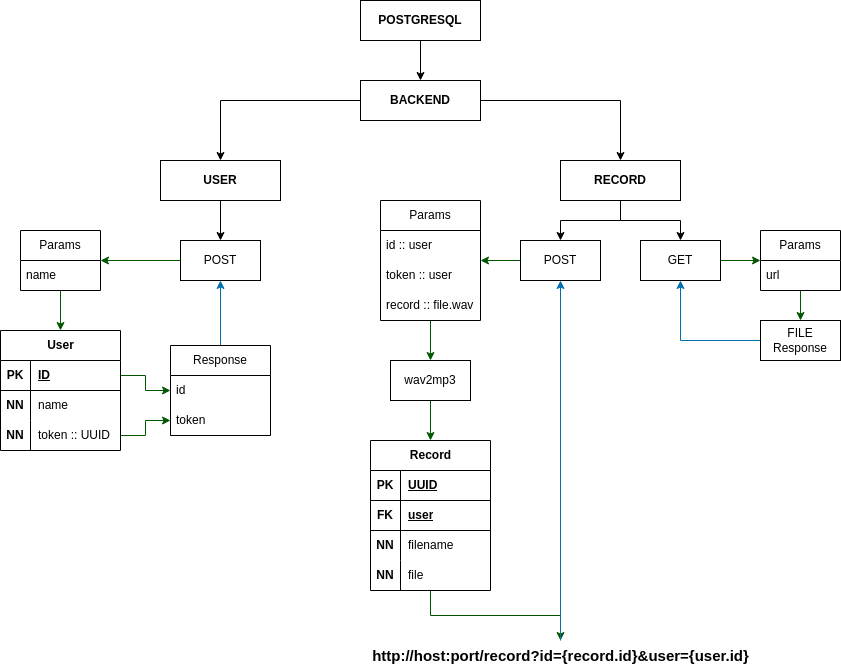
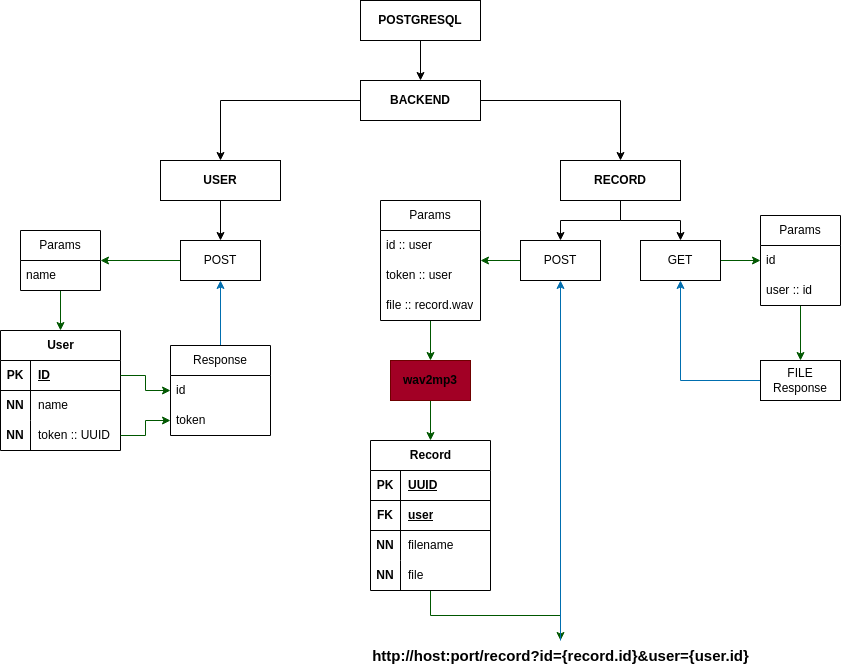
WebDevelopment: staff-prof.ru: Fixed get record implementation

diff --git a/WebDevelopment/staff-prof.ru/Task_2/app/routers/record.py b/WebDevelopment/staff-prof.ru/Task_2/app/routers/record.py
@@ -1,14 +1,12 @@
-import asyncio
 from typing import Annotated
 
 import sqlalchemy.orm as sao
-from pydantic import HttpUrl, UUID4, PositiveInt, AfterValidator
+from pydantic import UUID4, PositiveInt, AfterValidator
 from fastapi import APIRouter, Query, Form, status, UploadFile, File, Depends
 from fastapi.responses import Response
 
 from app import schemas, dependencies, exceptions
 from app.config import settings, SUPPORTED_RECORD_RESPONSE_FILE_TYPE
-from app.dependencies import parse_record_id_and_user_id
 from app.sqldb import crud
 
 
@@ -41,12 +39,16 @@ async def upload_record(
     if not user:
         raise exceptions.UserIDOrTokenIsInvalid()
 
-    # XXX: Конвертирует...
-    await asyncio.sleep(2)
+    # TODO: Конвертация: `.wav` to `.mp3`
+
+    # TODO: Название файла, если она не задана
+    filename = file.filename
+    if filename is None:
+        filename = f"{user.id}.wav"
 
     record = crud.Record.create(
         user_id=user.id,
-        filename=file.filename or "",
+        filename=filename,
         file=(await file.read()),
         session=session,
     )
@@ -61,14 +63,14 @@ async def upload_record(
 
 @router.get("")
 async def download_record(
-    url: HttpUrl = Query(description="URL для скачивание записи"),
+    id: Annotated[UUID4, Query(description="Идентификатор аудиозаписи")],
+    user: Annotated[int, Query(description="Идентификатор пользователя")],
     session: sao.Session = Depends(dependency=dependencies.get_session),
 ) -> Response:
     """Скачивание аудизаписей по URL"""
-    record_id, user_id = parse_record_id_and_user_id(url=url)
     record = crud.Record.get(
-        record_id=record_id,
-        user_id=user_id,
+        record_id=str(id),
+        user_id=user,
         session=session,
     )
     if not record:
@@ -77,4 +79,7 @@ async def download_record(
     return Response(
         content=record.file,
         media_type=SUPPORTED_RECORD_RESPONSE_FILE_TYPE,
+        headers={
+            "Content-Disposition": f'attachment; filename="{record.filename}"',
+        },
     )

diff --git a/WebDevelopment/staff-prof.ru/Task_2/app/dependencies.py b/WebDevelopment/staff-prof.ru/Task_2/app/dependencies.py
@@ -1,13 +1,9 @@
-import uuid
 import contextlib
 from typing import Generator
-from urllib.parse import parse_qs
 
 import sqlalchemy.orm as sao
-from pydantic import HttpUrl
 from fastapi import FastAPI
 
-from app import exceptions
 from app.sqldb import Postgres
 
 
@@ -23,38 +19,3 @@ def get_session() -> Generator[sao.Session, None, None]:
     scoped_session = Postgres.get_scoped_session()
     with scoped_session() as session:
         yield session
-
-
-def parse_record_id_and_user_id(url: HttpUrl) -> tuple[str, int]:
-    """Parsing the given `url` to download a record
-
-    Parameters
-    ----------
-    url : HttpUrl
-        Give `url` to parse
-
-    Returns
-    -------
-    tuple[int, int]
-        record_id, user_id
-    """
-    parsed_query: dict[str, list[str]] = parse_qs(url.query)
-
-    record_ids: list[str] = parsed_query.get("id", [])
-    user_ids: list[str] = parsed_query.get("user", [])
-
-    if not all((record_ids, user_ids)):
-        raise exceptions.RecordIDAndUserIDAreRequired()
-
-    record_id: str | None = None
-    with contextlib.suppress(ValueError):
-        record_id = str(uuid.UUID(record_ids[0]))
-
-    user_id: int | None = None
-    with contextlib.suppress(ValueError):
-        user_id = int(user_ids[0])
-
-    if (record_id is None) or (user_id is None):
-        raise exceptions.RecordIDAndUserIDAreRequired()
-
-    return record_id, user_id

diff --git a/WebDevelopment/staff-prof.ru/Task_2/README.md b/WebDevelopment/staff-prof.ru/Task_2/README.md
@@ -1,65 +1,77 @@
-Музыкальный веб сервис - [ТЗ](../data/TestTask.pdf)<br />
+# Музыкальный веб сервис - [ТЗ](../data/TestTask.pdf)<br />
+
 Пользователям доступно загрузки и отгрузки аудиозаписей
 
-<h4>
-<details>
-  <summary>Скачивание проекта</summary>
-  <pre>
+### Скачивание проекта
+```bash
 git clone \
   --single-branch \
   --depth=1 https://github.com/ames0k0/TestWork
-cd TestWork/WebDevelopment/staff-prof.ru/Task_2/</pre>
-</details>
-</h4>
 
-<h4>
-  <details>
-    <summary>Запуску проекта через Docker Compose</summary>
-    <pre>docker -v  # Docker version 27.5.1, build 9f9e405</pre>
-  </details>
-</h4>
+cd TestWork/WebDevelopment/staff-prof.ru/Task_2/
+```
+
+### Запуску проекта через Docker Compose
+<details>
+  <summary>Зависимости</summary>
+  <pre>
+docker -v  # Docker version 27.5.1, build 9f9e405
+python -V  # Python 3.12.3</pre>
+</details>
 
 ```bash
 docker compose up -d --build
 ```
-- <strong>Сервис: http://localhost:8000</strong>
-- <strong>Документация: http://localhost:8000/docs</strong>
-  - <details>
-    <summary>POST /user/ - Создание пользователя</summary>
-    <pre>
-    curl -X 'POST' \
-      'http://localhost:8000/user/?name=ames0k0' \
-      -H 'accept: application/json' \
-      -d ''
-    ---
-    {
-      "id": 1,
-      "token": "d5fde0d9-9402-4112-bd33-b6ae14d8c87f"
-    }</pre>
-    </details>
-  - <details>
-      <summary>POST /record/ - Загрузка аудиозаписи</summary>
-      <pre>
-      curl -X 'POST' \
-        'http://localhost:8000/record' \
-        -H 'accept: application/json' \
-        -H 'Content-Type: multipart/form-data' \
-        -F 'id=1' \
-        -F 'token=d5fde0d9-9402-4112-bd33-b6ae14d8c87f' \
-        -F 'file=@out.wav;type=audio/x-wav'
-      ---
-      "http://0.0.0.0:8000/record?id=acd5f8bf-f759-4e99-8441-b4aba0a0a738&user=1"</pre>
-    </details>
-  - <details>
-      <summary>GET /record/ - Скачивание аудизаписей по URL</summary>
-      <pre>
-      curl -X 'GET' \
-        'http://localhost:8000/record?url=http://0.0.0.0:8000/record?id=acd5f8bf-f759-4e99-8441-b4aba0a0a738&user=1' \
-        -H 'accept: application/json'
-      ---</pre>
-    </details>
-- <strong>Замечание</strong>
-  - Не преобразует айдиозапись в формат `mp3`, поставил `sleep(2)`
+| Сервис                | Документация / SwaggerUI   |
+| --------------------- | -------------------------- |
+| http://localhost:8000 | http://localhost:8000/docs |
+
+
+## REST методы
+### Пользователь
+#### Создание пользователя
+```
+POST /user/
+```
+| Параметры запроса | Тип    | Описание         |
+| ----------------- | ------ | ---------------- |
+| name              | Строка | Имя пользователя |
+```json
+// Ответ сервера
+{
+  "id": 1,
+  "token": "d5fde0d9-9402-4112-bd33-b6ae14d8c87f"
+}
+```
+### Аудизапись
+#### Загрузка аудиозаписи
+```
+POST /record/
+```
+| Параметры формы | Тип   | Описание                     |
+| --------------- | ----- | ---------------------------- |
+| id              | Число | Идентификатор пользователя   |
+| token           | UUID  | Токен доступа / пользователя |
+| file            | Файл  | Аудиозапись в формате `wav`  |
+```json
+// Ответ сервера
+"http://0.0.0.0:8000/record?id=acd5f8bf-f759-4e99-8441-b4aba0a0a738&user=1"
+```
+#### Скачивания аудизаписа
+```
+GET /record/
+```
+| Параметры запроса | Тип    | Описание                   |
+| ----------------- | ------ | -------------------------- |
+| id                | UUID   | Идентификатор аудиозаписи  |
+| user              | Число  | Идентификатор пользователя |
+```json
+// Ответ сервера
+// blob:http://localhost:8000/bd03fa9f-9584-4ab6-b440-280c3b804bb2
+@file
+```
+> [!NOTE]
+> - Не преобразует айдиозапись в формат `mp3`
 
 ---
 <details>
